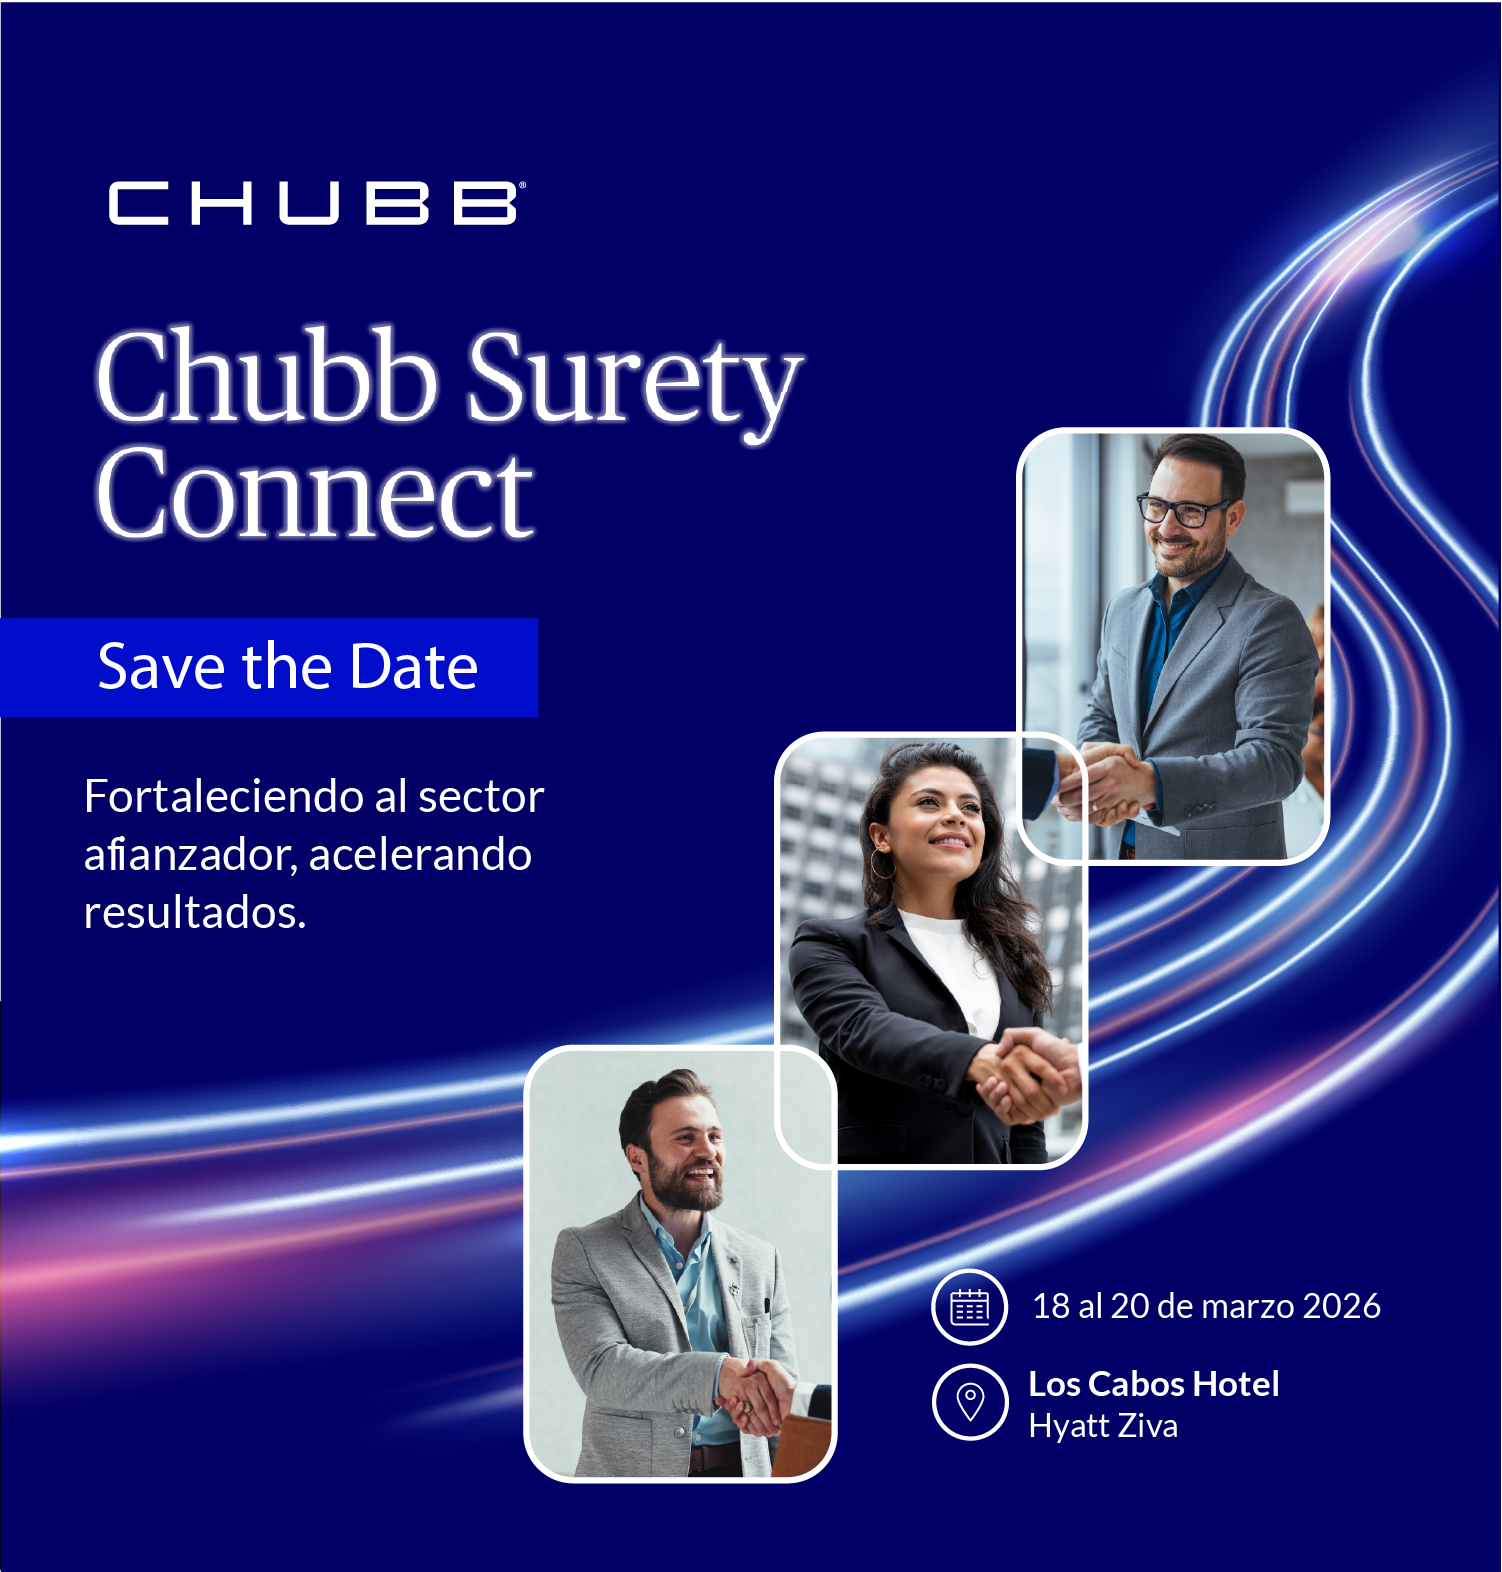
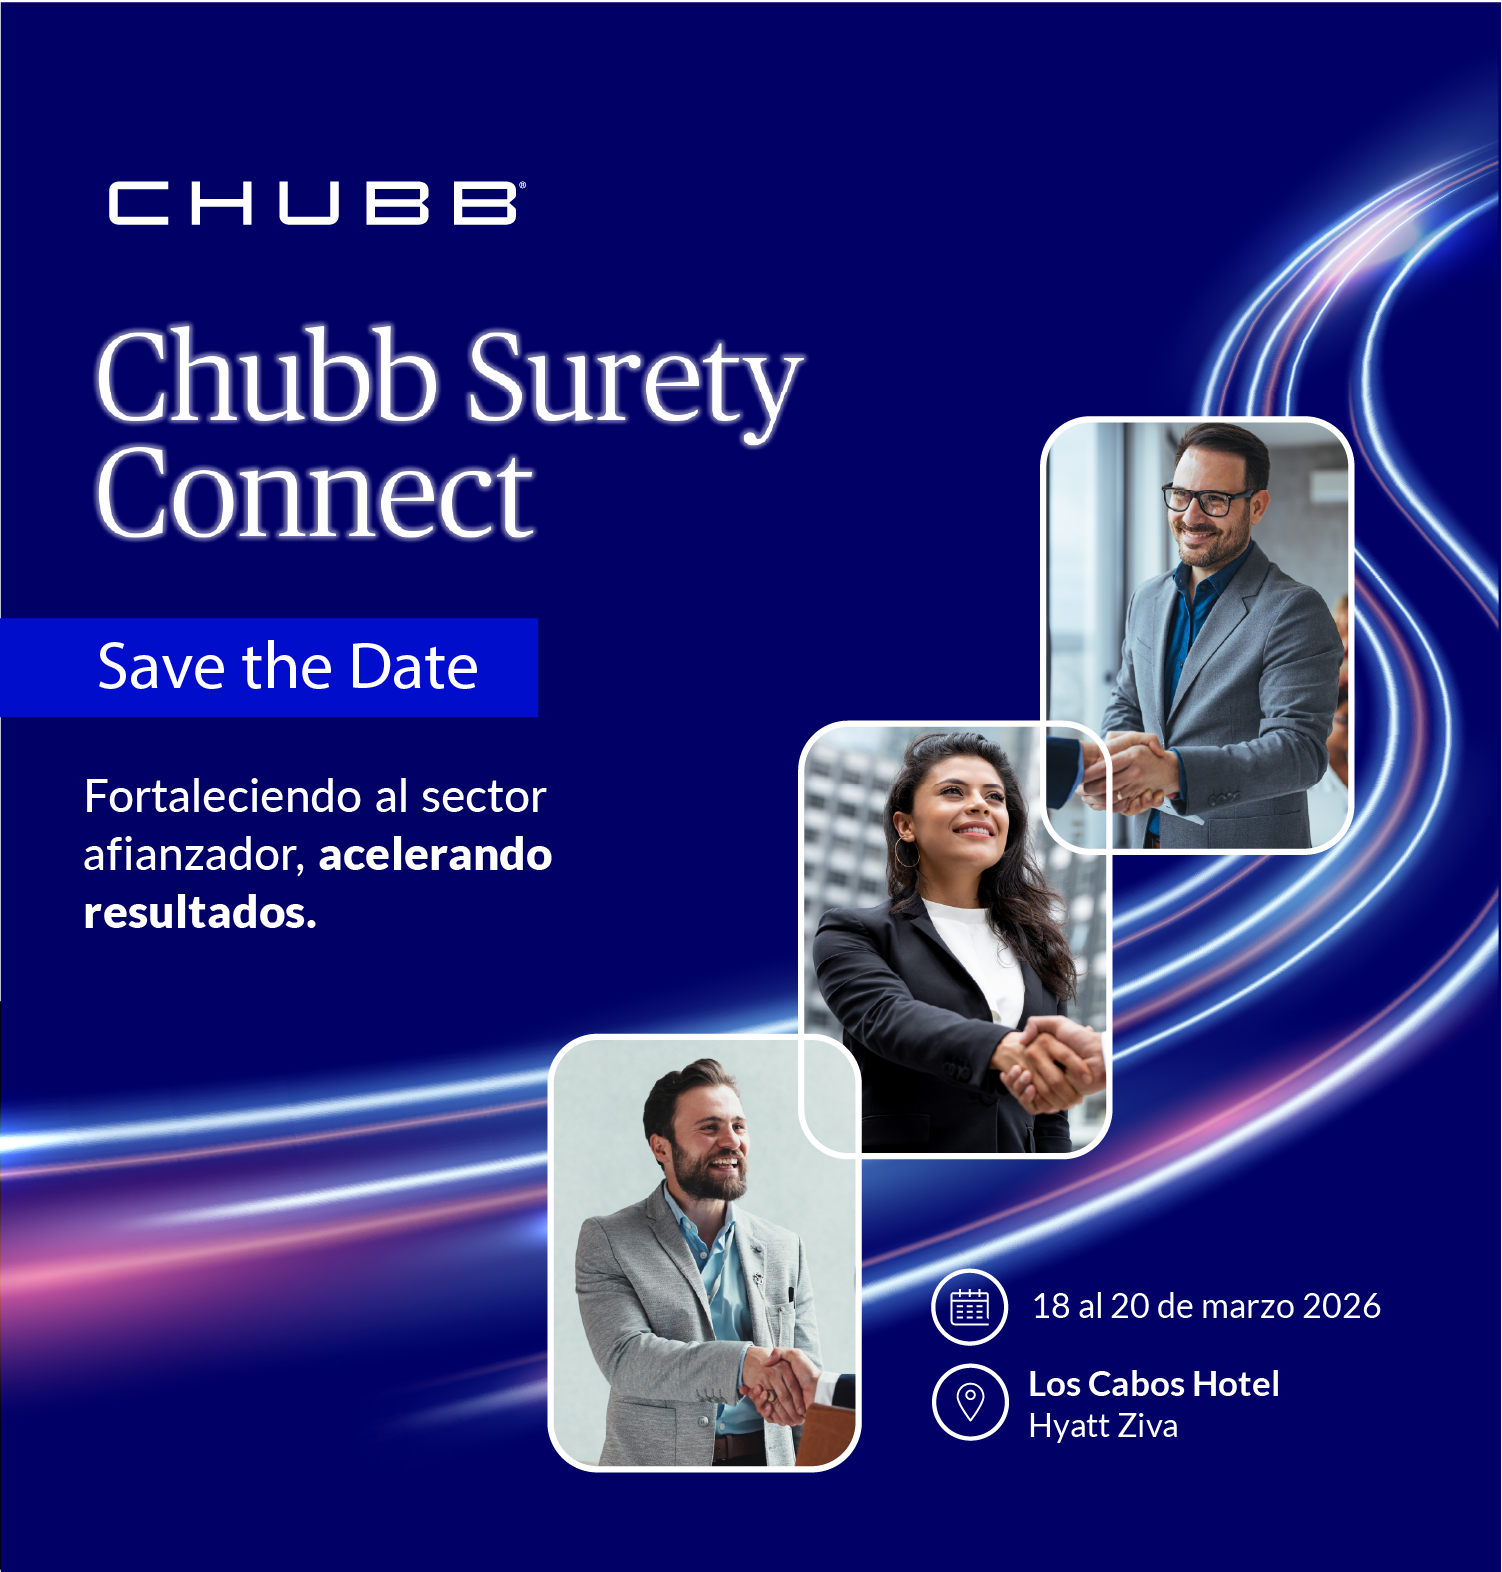
typos and img edit

Changed region(s): [[0.3369, 0.2494, 0.9188, 0.9663], [0.0613, 0.4987, 0.3675, 0.5922]]

diff --git a/src/components/ThankYouStepView.jsx b/src/components/ThankYouStepView.jsx
@@ -5,7 +5,7 @@ function ThankYouStepView({ summary, onReset }) {
         <p className="thank-you-eyebrow">Registro completado</p>
    
       </div>
-      <p className="thank-you-lead">Tu información fue enviada correctamente, en breve nos pondremos en contacto contigo para coordinar la logísticas de tu viaje y tu asistencia  al evento.</p>
+      <p className="thank-you-lead">Tu información fue enviada correctamente, en breve nos pondremos en contacto contigo para coordinar la logística de tu viaje y tu asistencia  al evento.</p>
       <div className="thank-you-summary">
         <p className="thank-you-summary-title">Resumen de tu registro:</p>
         <div className="thank-you-summary-item">
